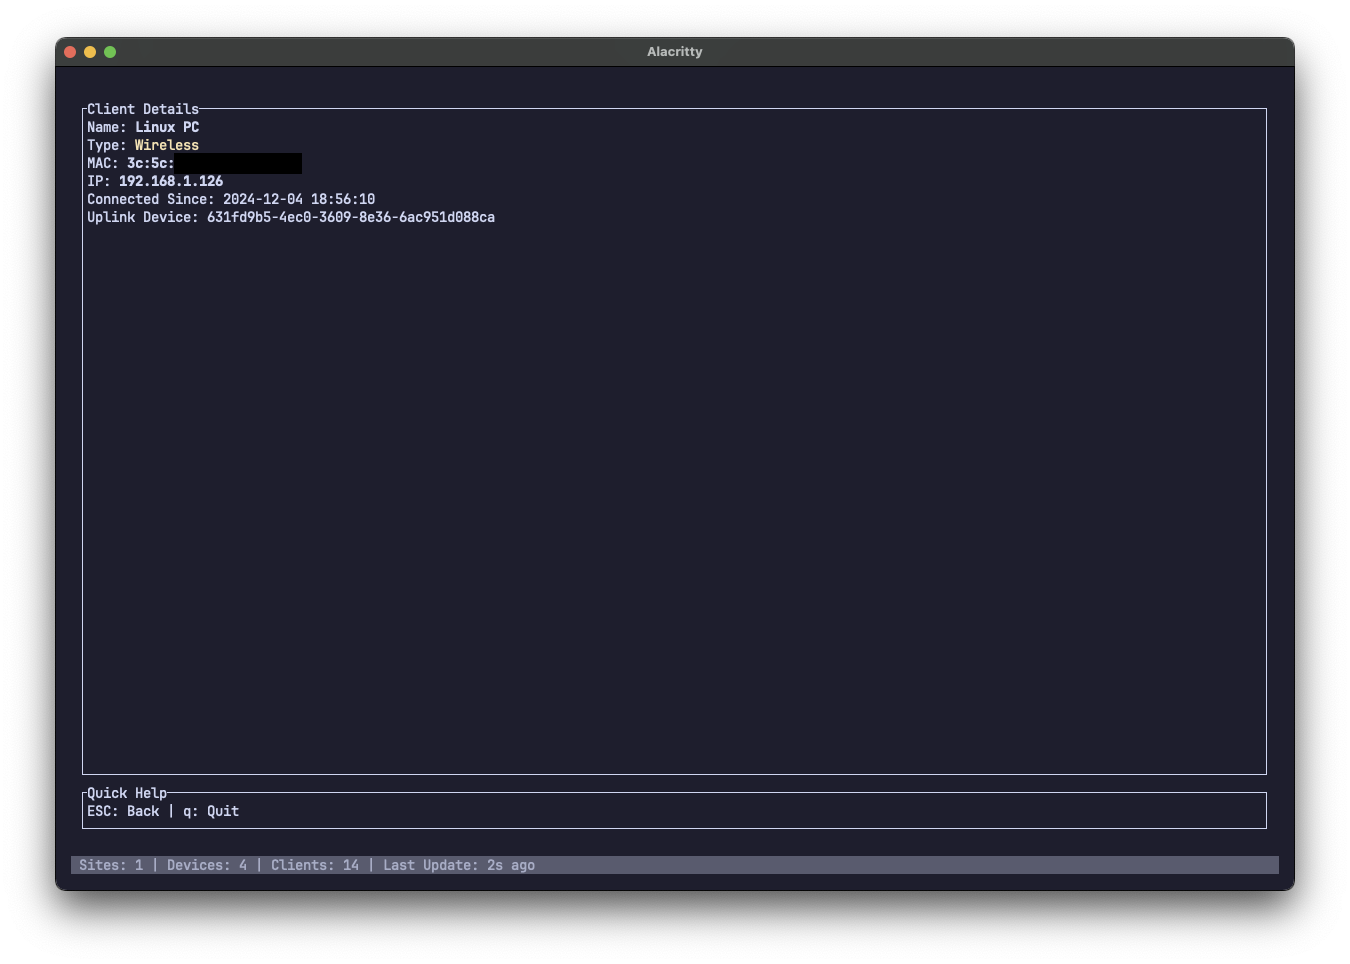
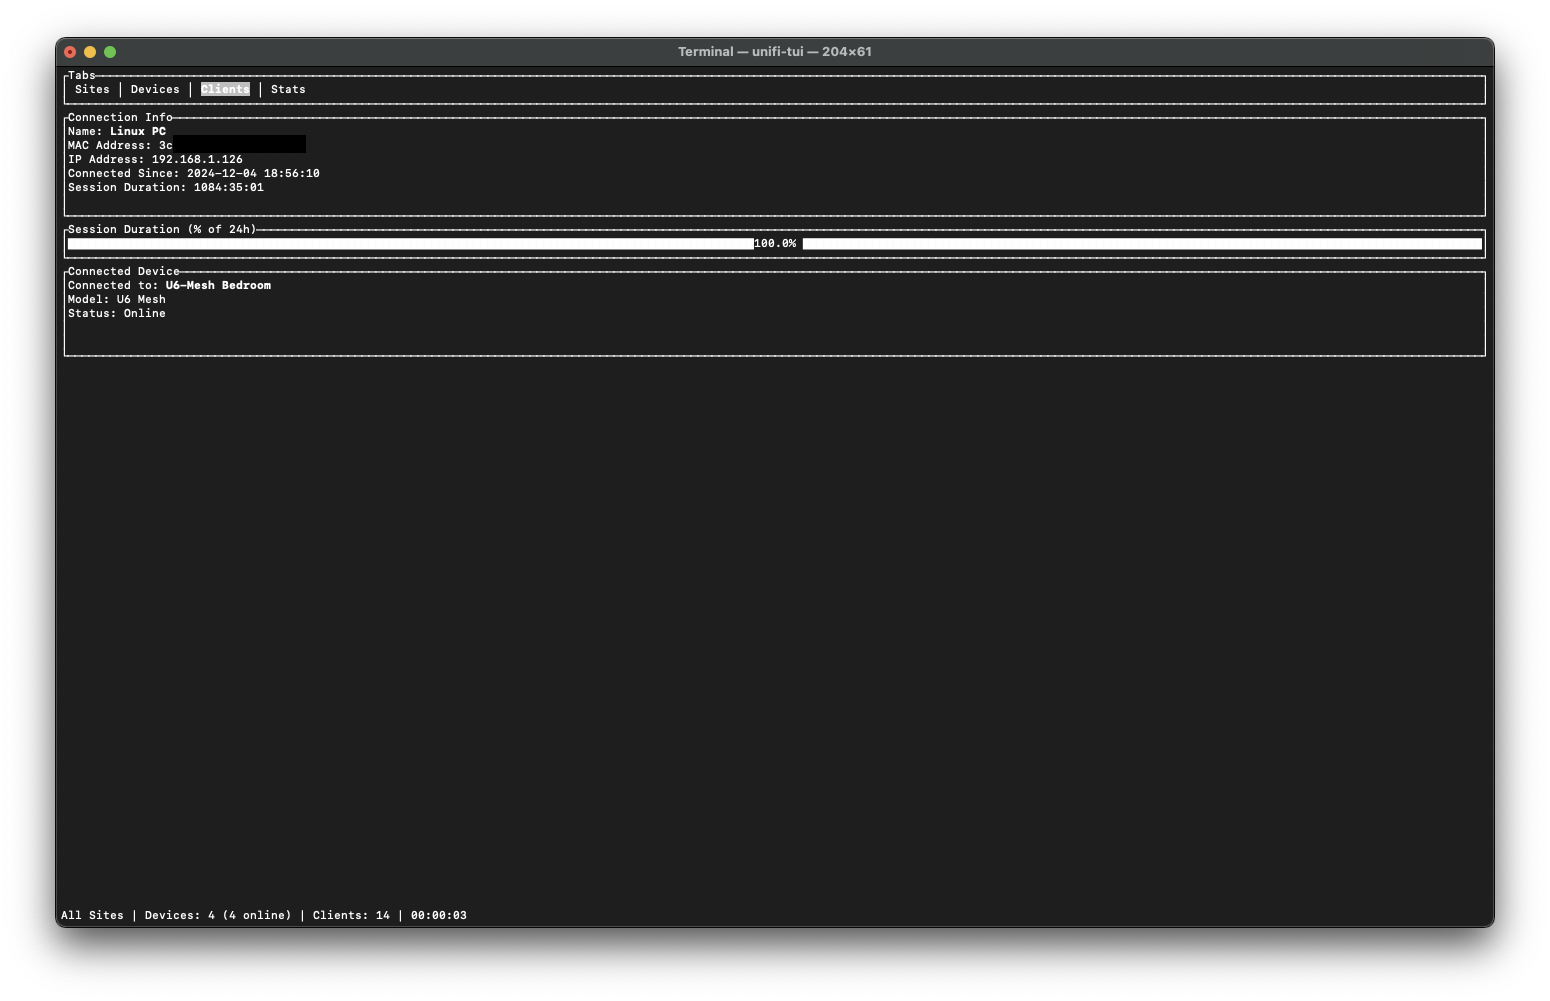
doc: images to new version

Changed region(s): [[0.0311, 0.0311, 0.9644, 0.9336]]

diff --git a/README.md b/README.md
@@ -30,10 +30,13 @@ unifi-tui
 ### Unifi Devices
 ![Devices](./doc/devices.png)
 ![DeviceDetail](./doc/device-details.png)
+![DeviceDetail2](./doc/device-details-network.png)
+![DeviceDetail3](./doc/device-details-ports.png)
+![DeviceDetail4](./doc/device-details-radio.png)
 
 ### Clients
 ![Clients](./doc/clients.png)
 ![ClientDetail](./doc/client-details.png)
 
 ### Stats
-![Stats](./doc/stats.png)
+![Stats](./doc/general-stats.png)
